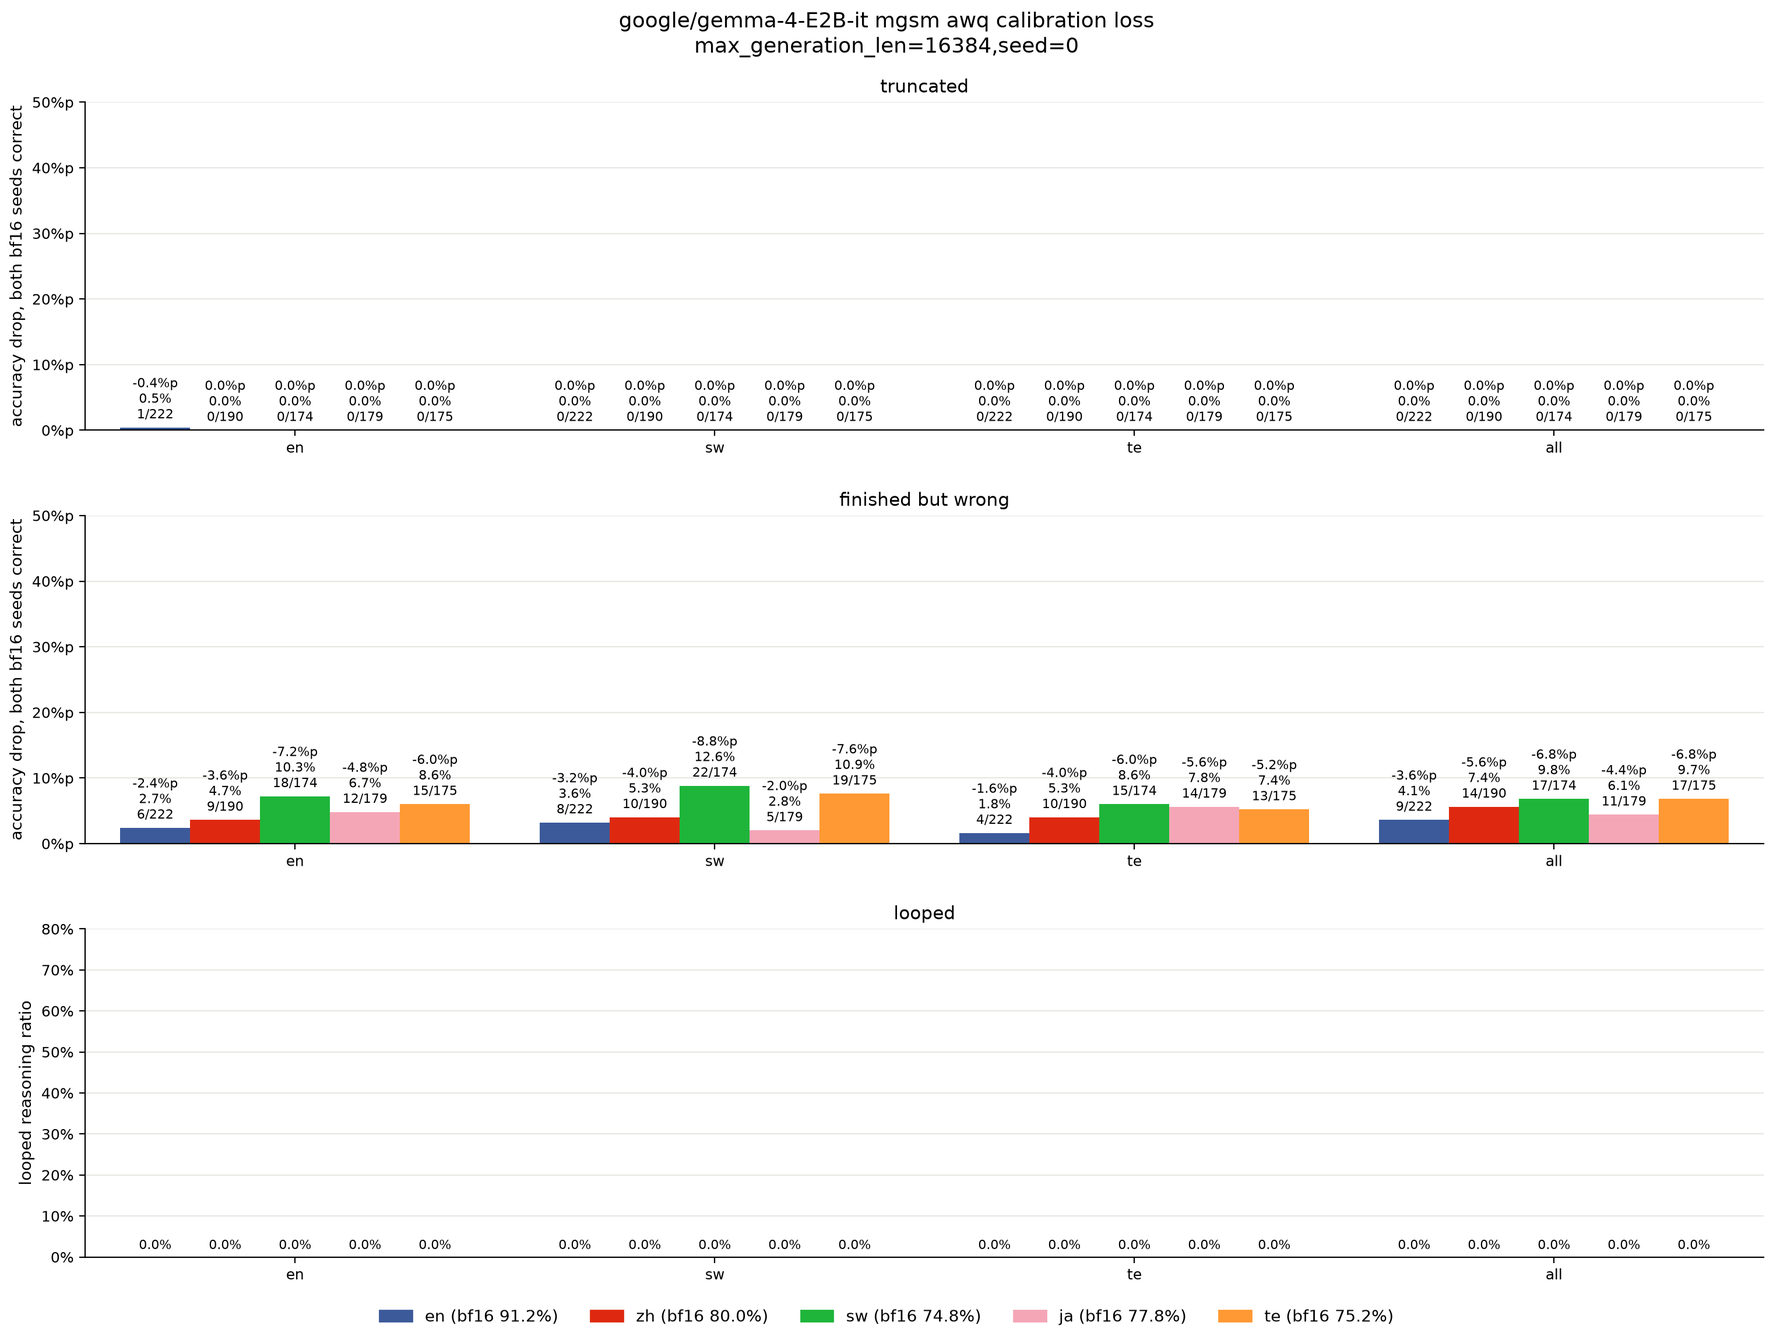
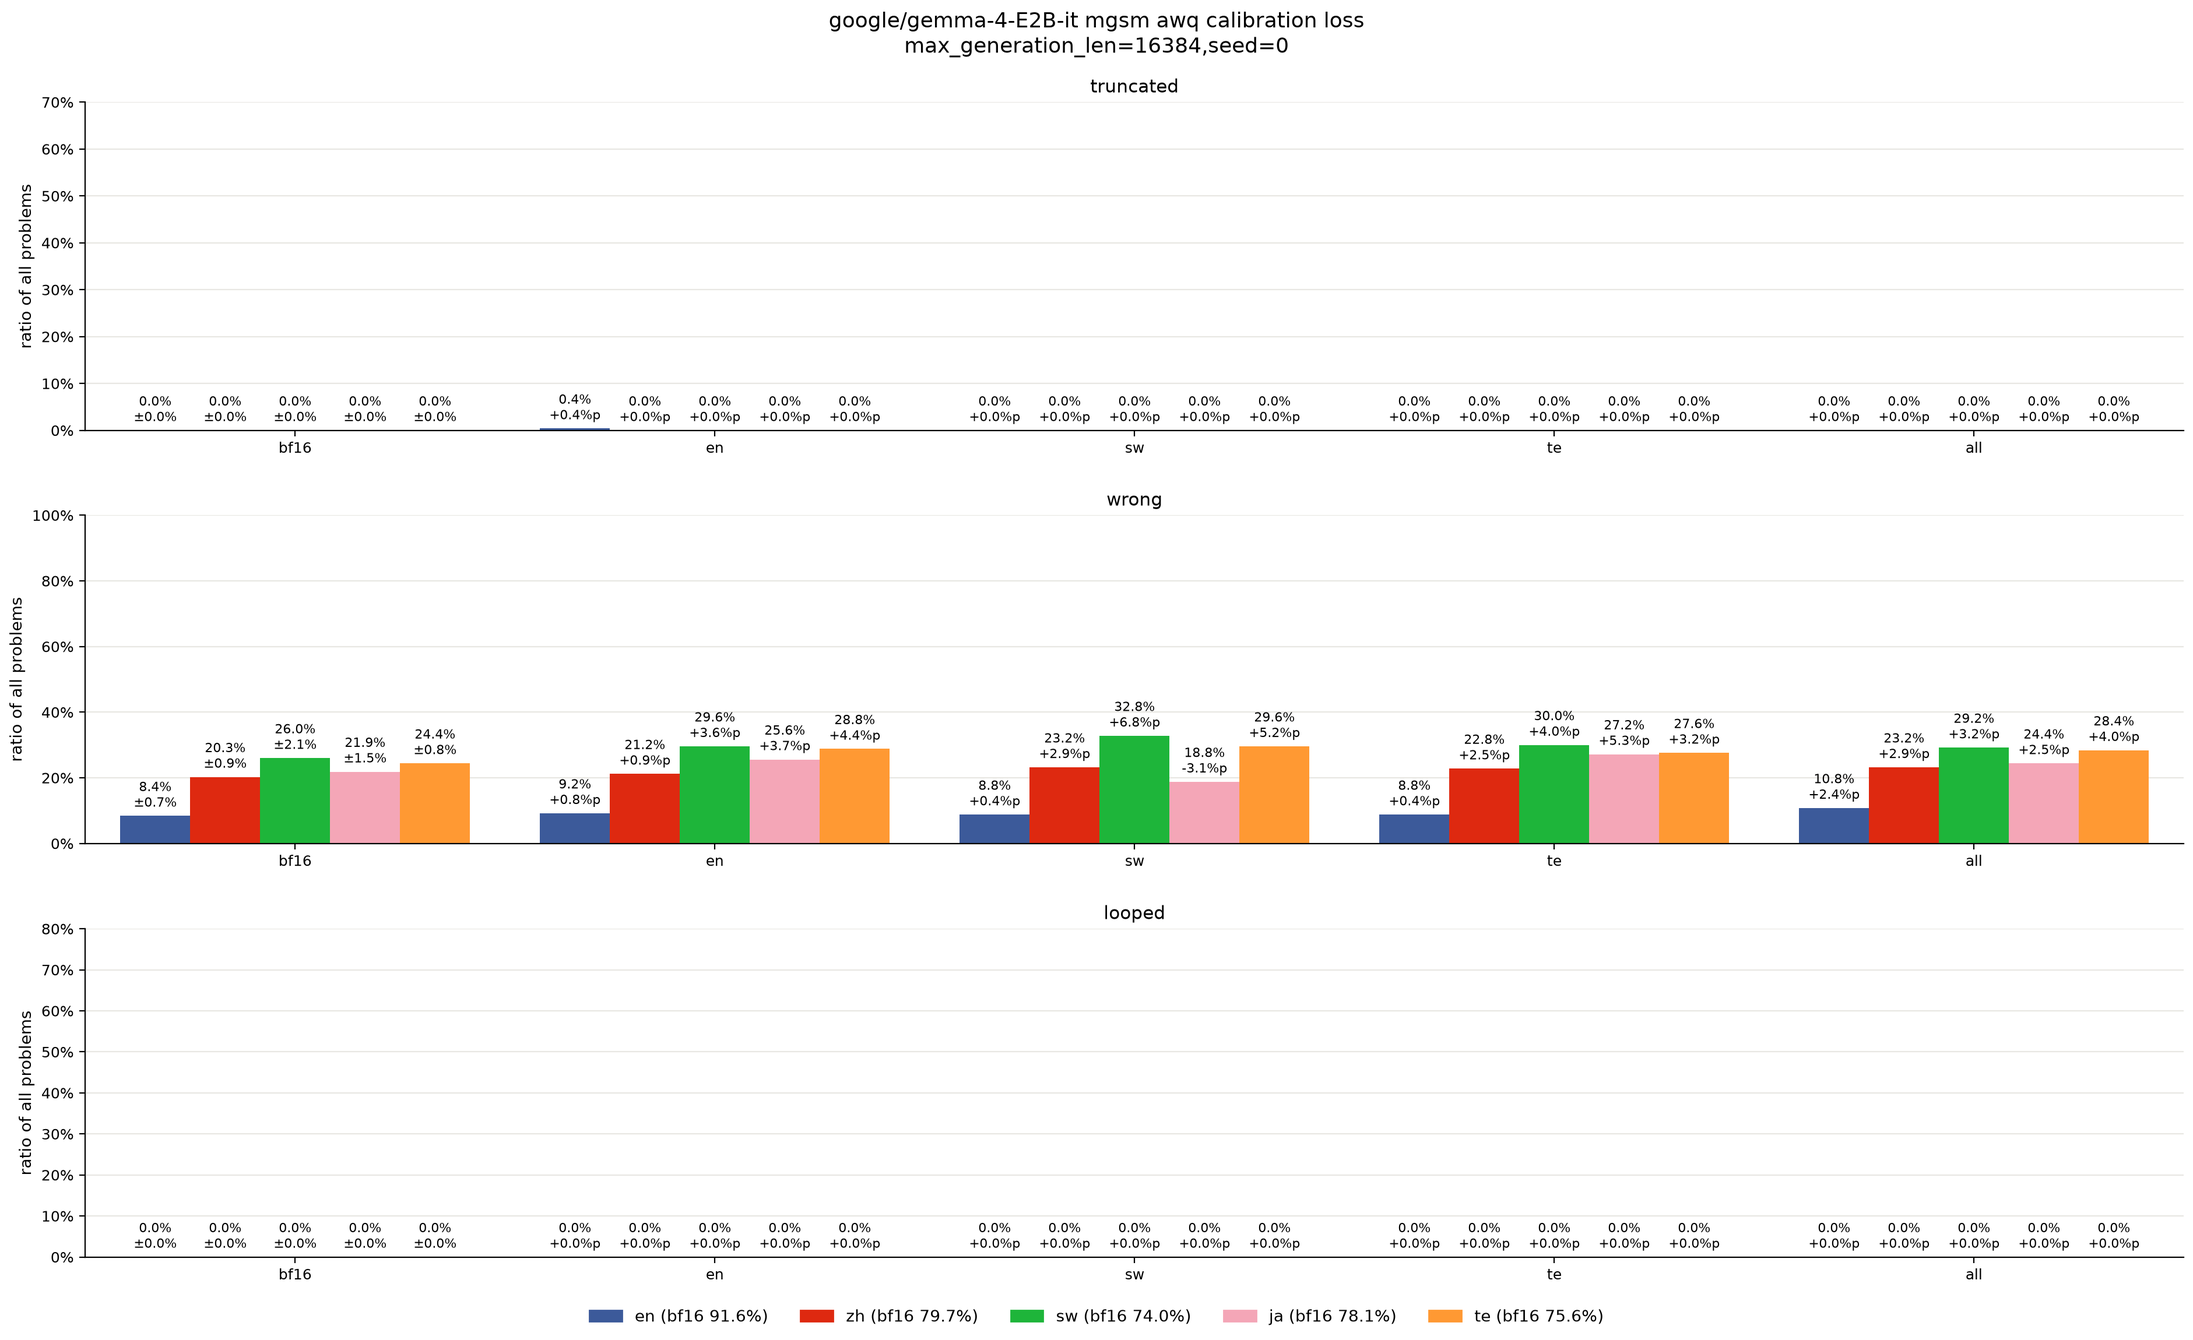
use all problems in loss plots

diff --git a/plots/calibration.py b/plots/calibration.py
@@ -7,10 +7,10 @@ import matplotlib.pyplot as plt
 from matplotlib.ticker import PercentFormatter
 from simple_parsing import parse
 
-from utils.hub import load_result
-from utils.metrics import get_both_correct_mask, get_loop_ratio, get_loss_points, get_loss_ratios
+from utils.hub import load_result, result_exists
+from utils.metrics import get_wrong_ratio, get_loop_ratio, get_truncated_ratio
 from utils.paths import make_bf16_path, make_target_path
-from utils.plot import LANGUAGE_COLORS, fit_bar_width, format_loss, get_figsize, get_panel_width, plot_bars, save_figure
+from utils.plot import LANGUAGE_COLORS, fit_bar_width, format_bf16_ratio, format_ratio, get_figsize, get_panel_width, plot_bars, save_figure
 
 CALIBRATIONS = {"en": ("en",), "sw": ("sw",), "te": ("te",), "all": ("en", "zh", "sw", "ja", "te")}
 
@@ -30,39 +30,35 @@ def main() -> None:
     config = parse(Config)
     file_name = f"max_generation_len={config.max_generation_len},seed={config.seed}"
     bf16_target = make_bf16_path(config.model_name)
-    # problems both seeds solved, so one lucky run does not count as a loss
-    bf16_results = [load_result(config.benchmark, bf16_target, f"max_generation_len={config.max_generation_len},seed={seed}") for seed in [config.seed, config.seed + 1]]
+    bf16_file_names = [f"max_generation_len={config.max_generation_len},seed={seed}" for seed in range(config.seed, config.seed + 3)]
+    bf16_results = [load_result(config.benchmark, bf16_target, bf16_file_name) for bf16_file_name in bf16_file_names if result_exists(config.benchmark, bf16_target, bf16_file_name)]
     languages = list(bf16_results[0])
 
     results = {calibration: load_result(config.benchmark, make_target_path("awq", config.model_name, calibration_languages, config.num_bits, config.group_size, config.num_samples), file_name) for calibration, calibration_languages in CALIBRATIONS.items()}
 
-    truncated_groups = []
-    finished_groups = []
-    looped_groups = []
-    for language in languages:
-        both_correct_mask = get_both_correct_mask([bf16_result[language] for bf16_result in bf16_results])
-        truncated_ratios, finished_ratios = zip(*[get_loss_ratios(result[language], both_correct_mask) for result in results.values()])
-        truncated_groups.append(([get_loss_points(truncated_ratio, both_correct_mask) for truncated_ratio in truncated_ratios], LANGUAGE_COLORS[language], [format_loss(truncated_ratio, both_correct_mask) for truncated_ratio in truncated_ratios]))
-        finished_groups.append(([get_loss_points(finished_ratio, both_correct_mask) for finished_ratio in finished_ratios], LANGUAGE_COLORS[language], [format_loss(finished_ratio, both_correct_mask) for finished_ratio in finished_ratios]))
-        loop_ratios = [get_loop_ratio(result[language]) for result in results.values()]
-        looped_groups.append((loop_ratios, LANGUAGE_COLORS[language], [f"{loop_ratio:.1%}" for loop_ratio in loop_ratios]))
-
-    panel_widths = [get_panel_width(len(results), len(languages))]
-    fig, axes = plt.subplots(3, 1, figsize=get_figsize(panel_widths, 3), layout="constrained")
     panels = [
-        (truncated_groups, "truncated", "accuracy drop, both bf16 seeds correct", 0.5, "%p"),
-        (finished_groups, "finished but wrong", "accuracy drop, both bf16 seeds correct", 0.5, "%p"),
-        (looped_groups, "looped", "looped reasoning ratio", 0.8, "%"),
+        (get_truncated_ratio, [], "truncated", 0.7),
+        (get_wrong_ratio, [], "wrong", 1),
+        (get_loop_ratio, [], "looped", 0.8),
     ]
-    for ax, (groups, title, ylabel, ymax, symbol) in zip(axes, panels):
-        plot_bars(ax, list(results), groups)
+    for get_ratio, groups, _, _ in panels:
+        for language in languages:
+            bf16_ratios = [get_ratio(bf16_result[language]) for bf16_result in bf16_results]
+            ratios = [get_ratio(result[language]) for result in results.values()]
+            groups.append(([mean(bf16_ratios), *ratios], LANGUAGE_COLORS[language], [format_bf16_ratio(bf16_ratios), *[format_ratio(ratio, mean(bf16_ratios)) for ratio in ratios]]))
+
+    labels = ["bf16", *results]
+    panel_widths = [get_panel_width(len(labels), len(languages))]
+    fig, axes = plt.subplots(3, 1, figsize=get_figsize(panel_widths, 3), layout="constrained")
+    for ax, (_, groups, title, ymax) in zip(axes, panels):
+        plot_bars(ax, labels, groups)
         # same scale for every model and benchmark, so figures can be compared
         ax.set_ylim(0, ymax)
-        ax.set_ylabel(ylabel)
+        ax.set_ylabel("ratio of all problems")
         ax.set_title(title)
         ax.grid(axis="y", color="#e8e7e3", linewidth=0.8)
         ax.set_axisbelow(True)
-        ax.yaxis.set_major_formatter(PercentFormatter(1, decimals=0, symbol=symbol))
+        ax.yaxis.set_major_formatter(PercentFormatter(1, decimals=0))
 
     fig.suptitle(f"{config.model_name} {config.benchmark} awq calibration loss\n{file_name}")
     handles = [Patch(color=LANGUAGE_COLORS[language], label=f"{language} (bf16 {mean(bf16_result[language]['accuracy'] for bf16_result in bf16_results):.1%})") for language in languages]

diff --git a/plots/loss.py b/plots/loss.py
@@ -8,9 +8,9 @@ from matplotlib.ticker import PercentFormatter
 from simple_parsing import parse
 
 from utils.hub import load_result, result_exists
-from utils.metrics import get_both_correct_mask, get_loop_ratio, get_loss_points, get_loss_ratios
+from utils.metrics import get_wrong_ratio, get_loop_ratio, get_truncated_ratio
 from utils.paths import make_target_path
-from utils.plot import LANGUAGE_COLORS, fit_bar_width, format_loss, get_figsize, get_panel_width, plot_bars, save_figure
+from utils.plot import LANGUAGE_COLORS, fit_bar_width, format_bf16_ratio, format_ratio, get_figsize, get_panel_width, plot_bars, save_figure
 
 
 @dataclass
@@ -29,8 +29,8 @@ def main() -> None:
     config = parse(Config)
     file_name = f"max_generation_len={config.max_generation_len},seed={config.seed}"
     bf16_target = make_target_path("bf16", config.model_name, config.languages, config.num_bits, config.group_size, config.num_samples)
-    # problems both seeds solved, so one lucky run does not count as a loss
-    bf16_results = [load_result(config.benchmark, bf16_target, f"max_generation_len={config.max_generation_len},seed={seed}") for seed in [config.seed, config.seed + 1]]
+    bf16_file_names = [f"max_generation_len={config.max_generation_len},seed={seed}" for seed in range(config.seed, config.seed + 3)]
+    bf16_results = [load_result(config.benchmark, bf16_target, bf16_file_name) for bf16_file_name in bf16_file_names if result_exists(config.benchmark, bf16_target, bf16_file_name)]
     languages = list(bf16_results[0])
 
     results = {}
@@ -39,33 +39,29 @@ def main() -> None:
         if result_exists(config.benchmark, target, file_name):
             results[method] = load_result(config.benchmark, target, file_name)
 
-    truncated_groups = []
-    finished_groups = []
-    looped_groups = []
-    for language in languages:
-        both_correct_mask = get_both_correct_mask([bf16_result[language] for bf16_result in bf16_results])
-        truncated_ratios, finished_ratios = zip(*[get_loss_ratios(result[language], both_correct_mask) for result in results.values()])
-        truncated_groups.append(([get_loss_points(truncated_ratio, both_correct_mask) for truncated_ratio in truncated_ratios], LANGUAGE_COLORS[language], [format_loss(truncated_ratio, both_correct_mask) for truncated_ratio in truncated_ratios]))
-        finished_groups.append(([get_loss_points(finished_ratio, both_correct_mask) for finished_ratio in finished_ratios], LANGUAGE_COLORS[language], [format_loss(finished_ratio, both_correct_mask) for finished_ratio in finished_ratios]))
-        loop_ratios = [get_loop_ratio(result[language]) for result in results.values()]
-        looped_groups.append((loop_ratios, LANGUAGE_COLORS[language], [f"{loop_ratio:.1%}" for loop_ratio in loop_ratios]))
-
-    panel_widths = [get_panel_width(len(results), len(languages))]
-    fig, axes = plt.subplots(3, 1, figsize=get_figsize(panel_widths, 3), layout="constrained")
     panels = [
-        (truncated_groups, "truncated", "accuracy drop, both bf16 seeds correct", 0.5, "%p"),
-        (finished_groups, "finished but wrong", "accuracy drop, both bf16 seeds correct", 0.5, "%p"),
-        (looped_groups, "looped", "looped reasoning ratio", 0.8, "%"),
+        (get_truncated_ratio, [], "truncated", 0.7),
+        (get_wrong_ratio, [], "wrong", 1),
+        (get_loop_ratio, [], "looped", 0.8),
     ]
-    for ax, (groups, title, ylabel, ymax, symbol) in zip(axes, panels):
-        plot_bars(ax, list(results), groups)
+    for get_ratio, groups, _, _ in panels:
+        for language in languages:
+            bf16_ratios = [get_ratio(bf16_result[language]) for bf16_result in bf16_results]
+            ratios = [get_ratio(result[language]) for result in results.values()]
+            groups.append(([mean(bf16_ratios), *ratios], LANGUAGE_COLORS[language], [format_bf16_ratio(bf16_ratios), *[format_ratio(ratio, mean(bf16_ratios)) for ratio in ratios]]))
+
+    labels = ["bf16", *results]
+    panel_widths = [get_panel_width(len(labels), len(languages))]
+    fig, axes = plt.subplots(3, 1, figsize=get_figsize(panel_widths, 3), layout="constrained")
+    for ax, (_, groups, title, ymax) in zip(axes, panels):
+        plot_bars(ax, labels, groups)
         # same scale for every model and benchmark, so figures can be compared
         ax.set_ylim(0, ymax)
-        ax.set_ylabel(ylabel)
+        ax.set_ylabel("ratio of all problems")
         ax.set_title(title)
         ax.grid(axis="y", color="#e8e7e3", linewidth=0.8)
         ax.set_axisbelow(True)
-        ax.yaxis.set_major_formatter(PercentFormatter(1, decimals=0, symbol=symbol))
+        ax.yaxis.set_major_formatter(PercentFormatter(1, decimals=0))
 
     fig.suptitle(f"{config.model_name} {config.benchmark} loss\n{file_name}")
     handles = [Patch(color=LANGUAGE_COLORS[language], label=f"{language} (bf16 {mean(bf16_result[language]['accuracy'] for bf16_result in bf16_results):.1%})") for language in languages]

diff --git a/utils/metrics.py b/utils/metrics.py
@@ -7,24 +7,19 @@ def get_loop_ratio(
     return mean(len(think) > 200 and think[:-200].count(think[-200:-150]) >= 5 for think in result["thinks"])
 
 
+def get_truncated_ratio(
+    result: dict,
+) -> float:
+    return mean(truncated and not correct for correct, truncated in zip(result["corrects"], result["truncateds"]))
+
+
+def get_wrong_ratio(
+    result: dict,
+) -> float:
+    return mean(not truncated and not correct for correct, truncated in zip(result["corrects"], result["truncateds"]))
+
+
 def get_both_correct_mask(
     bf16_results: list[dict],
 ) -> list[bool]:
     return [all(corrects) for corrects in zip(*[bf16_result["corrects"] for bf16_result in bf16_results])]
-
-
-def get_loss_ratios(
-    result: dict,
-    both_correct_mask: list[bool],
-) -> tuple[float, float]:
-    pairs = [(correct, truncated) for both_correct, correct, truncated in zip(both_correct_mask, result["corrects"], result["truncateds"]) if both_correct]
-    truncated_ratio = mean(truncated and not correct for correct, truncated in pairs)
-    finished_ratio = mean(not truncated and not correct for correct, truncated in pairs)
-    return truncated_ratio, finished_ratio
-
-
-def get_loss_points(
-    ratio: float,
-    both_correct_mask: list[bool],
-) -> float:
-    return ratio * sum(both_correct_mask) / len(both_correct_mask)

diff --git a/utils/plot.py b/utils/plot.py
@@ -1,4 +1,5 @@
 from pathlib import Path
+from statistics import mean, stdev
 
 from matplotlib.axes import Axes
 from matplotlib.figure import Figure
@@ -42,13 +43,17 @@ def get_figsize(
     return sum(panel_widths) + PANEL_MARGIN * len(panel_widths), PANEL_HEIGHT * num_rows + 1
 
 
-def format_loss(
+def format_ratio(
     ratio: float,
-    both_correct_mask: list[bool],
+    bf16_ratio: float,
 ) -> str:
-    num_both_correct = sum(both_correct_mask)
-    num_lost = round(ratio * num_both_correct)
-    return f"{-num_lost / len(both_correct_mask):z.1%}p\n{ratio:.1%}\n{num_lost}/{num_both_correct}"
+    return f"{ratio:.1%}\n{ratio - bf16_ratio:+.1%}p"
+
+
+def format_bf16_ratio(
+    bf16_ratios: list[float],
+) -> str:
+    return f"{mean(bf16_ratios):.1%}\n±{stdev(bf16_ratios):.1%}"
 
 
 def plot_bars(

diff --git a/docs/results.md b/docs/results.md
@@ -33,7 +33,9 @@ all experiments use these settings unless noted
 #### generation
 - use vllm 0.30.0
 - use temperature 1.0 and top-p 0.95
-- use seed 0 and 1 for bf16, and seed 0 for quantized models
+- use seed 0, 1 and 2 for bf16 on mgsm
+- use seed 0 and 1 for bf16 on mmlu-prox-lite
+- use seed 0 for quantized models
 - qwen3.5-2b uses top-k 20, presence penalty 1.5 and max generation len 32768
 - gemma-4-e2b-it uses top-k 64, presence penalty 0 and max generation len 16384
 
@@ -41,6 +43,7 @@ all experiments use these settings unless noted
 - use only text after reasoning
 - take last number (mgsm) or letter (mmlu-prox-lite) after answer prefix
 - if there is no prefix, take last one in whole response
+- loop means a 50 character piece, 150 characters before end, appears 5 or more times earlier
 
 ## does quantization hurt non english more than english?
 
@@ -51,44 +54,29 @@ all experiments use these settings unless noted
 
 #### setting
 - compare rtn, gptq, awq, nf4 and mxfp4 with bf16
-- count only problems all bf16 seeds solved, to reduce seed noise
-- first panel is truncated, second panel is finished but wrong, third panel is looped
-- first two panels show accuracy points
-- third panel shows loop ratio of all outputs
-- bar labels in first two panels show accuracy points, ratio and count
-- loop means text 200 to 150 characters before end appears 5 or more times earlier, as in [reasoning-quantization](https://github.com/sehyun734/reasoning-quantization/blob/main/utils/metrics.py)
+- use all problems, because qwen bf16 got too few right on sw and te
+- show bf16 as first bar, with mean and std of its seeds
+- first panel is truncated, second panel is wrong, third panel is looped
+- wrong means reasoning finished but answer is wrong
+- all panels show ratio of all problems
+- bar labels show ratio and change from bf16 mean
 
-#### method results
-- awq loses least in all cases (mean -4.9p to -7.7p)
-- nf4 is close to awq without calibration
-- rtn and mxfp4 lose most
-
-#### gemma results
+#### gemma summary
+- gemma loses less than qwen
 - gemma almost never truncates
-- gemma almost never loops
-- gemma en loses least on mgsm in every method
-- gemma sw loses most on mgsm in every method
-- gemma sw loses more than en with awq on mgsm (-7.2p vs -2.8p)
-- all gemma languages lose about the same on mmlu-prox-lite
+- with awq on mgsm, sw and en differ by only 2.4p, which could be noise
 
-#### qwen results
-- rtn and mxfp4 truncate most in qwen
-- qwen zh truncates most on mgsm in every method
-- qwen en truncates most on mmlu-prox-lite in every method
-- most qwen truncation in rtn and mxfp4 comes from loops (72% to 88%)
-- qwen sw and ja lose most by finished but wrong on mgsm
-- qwen languages are close by finished but wrong on mmlu-prox-lite
-- qwen languages lose about the same with awq on mmlu-prox-lite (en -7.1p, zh -8.2p, sw -7.0p, ja -8.5p, te -7.7p)
-- qwen sw loses more than en with awq on mgsm (-10.0p vs -5.2p)
-- qwen te loses little on mgsm, because bf16 solves few te problems
-- qwen bf16 is weak on sw and te on mgsm (42.8%, 14.8%)
+#### qwen summary
+- method decides how much truncation happens
+- most rtn and mxfp4 truncation comes from loops
+- bf16 is weak on sw and te on mgsm (43.1%, 16.1%)
+- with awq on mgsm, en and zh drop less than sw and ja
+- with awq on mgsm, ja loses as much as sw (-10.9p, -10.3p), even though bf16 does much better on ja (77.7%, 43.1%)
 
-> #### summary
-> - on mmlu-prox-lite, non english does not clearly lose more than en
-> - on mgsm, sw loses more than en with awq and nf4 in both models
-> - gemma loses less than qwen, mainly because it does not truncate
-> - in qwen, method decides how much truncation happens
-> - qwen is weak on sw and te even without quantization
+#### common summary
+- awq loses least on average (-2.8p to -7.2p)
+- rtn and mxfp4 lose most
+- on mmlu-prox-lite, non english does not clearly lose more than en
 
 ## does calibration language matter?
 
@@ -101,8 +89,12 @@ all experiments use these settings unless noted
 - all has 128 chunks in total, about 26 per language
 - panels and bar labels are same as above
 
-> #### summary
-> - calibrating on a language does not clearly help that language
-> - only qwen gains from all calibration
-> - sw and te calibration add loops on en and zh in qwen
-> - most changes could be within bf16 seed noise
+#### gemma summary
+- all calibration does not help (-3.0p vs -2.8p with en)
+
+#### qwen summary
+- all calibration helps (-4.7p vs -7.2p with en)
+- sw and te calibration add truncation and loops on en and zh
+
+#### common summary
+- calibrating on a language does not clearly help that language

diff --git a/README.md b/README.md
@@ -2,7 +2,7 @@
 
 ## background
 
-[the multilingual quantization tax](https://arxiv.org/abs/2608.09941) says quantization hurts non english more than english. this is an interesting view, so i inspect the same thing. then i analyze why it happens and find how qat can recover it.
+[the multilingual quantization tax](https://arxiv.org/abs/2608.09941) says quantization hurts non english more than english. this is interesting, so i check the same thing. then i find why it happens and how qat can recover it
 
 ## docs
 

diff --git a/docs/todo.md b/docs/todo.md
@@ -1,5 +1,6 @@
 # todo
 
-- bf16 has 2 seeds and quantized models have 1, which could be noise, so run 3 seeds for each (bf16 seed 2, quantized seed 1 and 2)
-- results could change after seed runs, so update `docs/results.md` if needed
-- `docs/related_work.md` does not exist yet, so write it
+- run seed 1 and 2 for quantized models
+- run bf16 seed 2 on mmlu-prox-lite
+- update `docs/results.md` after seed runs
+- write `docs/related_work.md`
